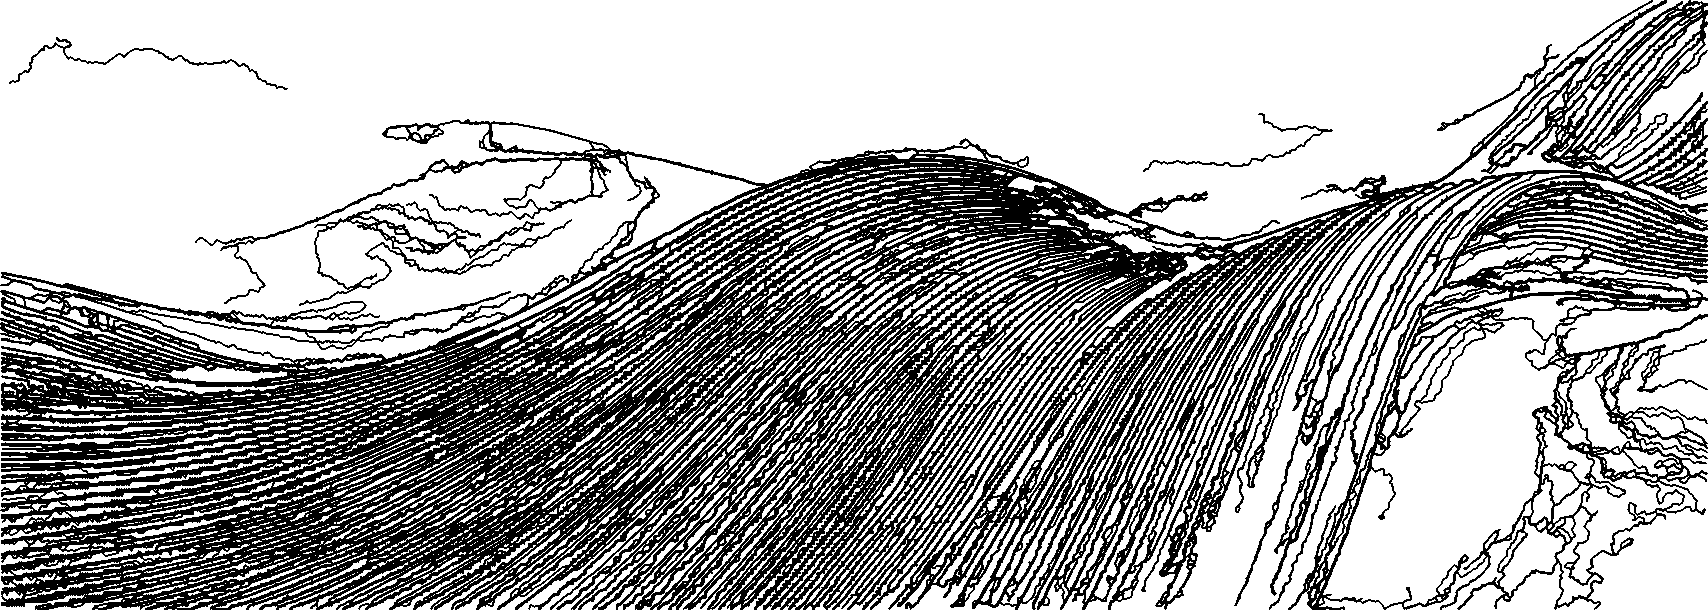
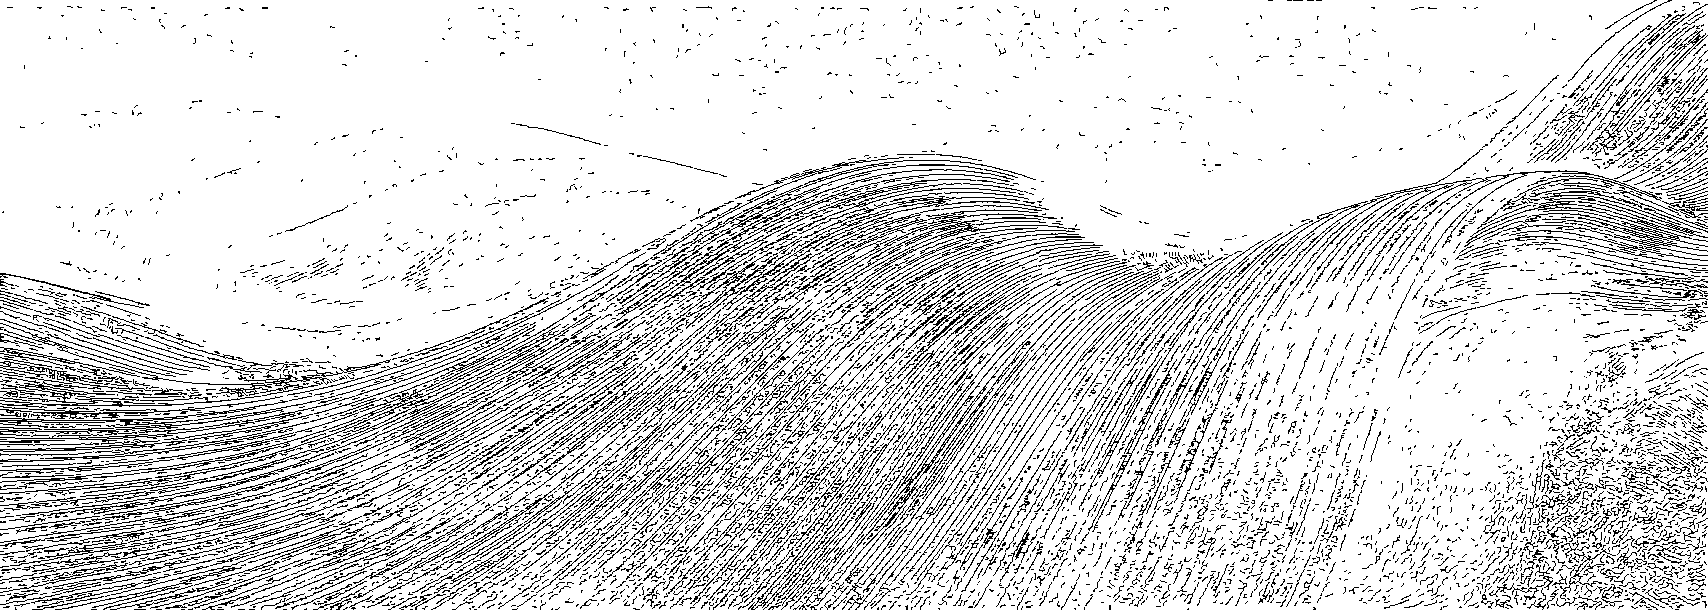
fix(ae-trace): export lineart at exact reference resolution
Ensure lineart_long.png matches reference.png (8268x2953) and keep a clearly named copy.

diff --git a/make_lineart.py b/make_lineart.py
@@ -100,15 +100,16 @@ def thin_keep(bw: np.ndarray) -> np.ndarray:
 
 def build_lineart(bgr: np.ndarray) -> np.ndarray:
     h0, w0 = bgr.shape[:2]
-    work_long = 2200
+    # High-res working canvas, then exact resize to reference WxH (same output resolution)
+    work_long = min(max(h0, w0), 3600)
     scale = min(1.0, work_long / max(h0, w0))
     work = (
-        cv2.resize(bgr, (int(w0 * scale), int(h0 * scale)), interpolation=cv2.INTER_AREA)
+        cv2.resize(bgr, (int(round(w0 * scale)), int(round(h0 * scale))), interpolation=cv2.INTER_AREA)
         if scale < 1.0
         else bgr
     )
     gray = cv2.cvtColor(work, cv2.COLOR_BGR2GRAY)
-    print("work", work.shape, flush=True)
+    print("work", work.shape, "target", (h0, w0), flush=True)
 
     ridge, cos_t, sin_t = ridge_and_orient(gray)
     nms = nms_along_normal(ridge, cos_t, sin_t)
@@ -137,10 +138,12 @@ def build_lineart(bgr: np.ndarray) -> np.ndarray:
     line = np.full_like(ink, 255)
     line[ink > 0] = 0
 
-    if scale < 1.0:
-        line = cv2.resize(line, (w0, h0), interpolation=cv2.INTER_LINEAR)
+    if line.shape[1] != w0 or line.shape[0] != h0:
+        # Nearest keeps strokes binary-crisp when scaling to exact reference size
+        line = cv2.resize(line, (w0, h0), interpolation=cv2.INTER_NEAREST)
         line = np.where(line < 210, 0, 255).astype(np.uint8)
 
+    assert line.shape[0] == h0 and line.shape[1] == w0, (line.shape, h0, w0)
     return cv2.cvtColor(line, cv2.COLOR_GRAY2BGR)
 
 
